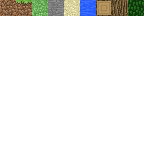
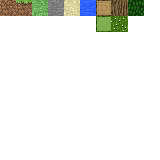
desert biome and cacti

Changed region(s): [[0.5938, 0.0938, 0.8125, 0.2188]]

diff --git a/src/plugins/world/chunk/systems/mod.rs b/src/plugins/world/chunk/systems/mod.rs
@@ -3,37 +3,53 @@ use bevy::{prelude::*, render::{render_resource::PrimitiveTopology, mesh}};
 use bevy_rapier3d::prelude::{Collider, ComputedColliderShape, Friction, CoefficientCombineRule};
 use noise::{Perlin, NoiseFn};
 
-use crate::{CHUNK_WIDTH, CHUNK_HEIGHT, plugins::world::WorldMap};
+use crate::{CHUNK_WIDTH, CHUNK_HEIGHT, plugins::world::{WorldMap, SeededPerlin}};
 
-use self::structures_generation::add_tree;
+use self::structures_generation::{add_tree, add_cactus};
 
 use super::components::{ChunkComponent, BlockType};
 
 mod structures_generation;
 
 pub fn generate_chunk_data(
-    perlin: Perlin,
+    perlin: &Res<SeededPerlin>,
     position: (i32, i32),
     world_map: &mut ResMut<WorldMap>,
 ) {
     let mut blocks = vec![vec![vec![BlockType::Air; CHUNK_WIDTH]; CHUNK_HEIGHT]; CHUNK_WIDTH];
+
+    let mut tree_positions = vec![];
 
     for x in 0..CHUNK_WIDTH {
         for y in 0..CHUNK_HEIGHT {
             for z in 0..CHUNK_WIDTH {
                 let mut block_to_assign = BlockType::Air;
 
-                let height = height_by_coords(perlin, x, z, position);
+                let height = height_by_coords(perlin.terrain_noise, x, z, position);
+                let tree_value = perlin.tree_noise.get([(x as f64 + position.0 as f64 * 16.0) * 0.01, (z as f64 + position.1 as f64 * 16.0) * 0.01]) as f32;
+
+                let temperature = perlin.temperature_noise.get([(x as f64 + position.0 as f64 * 16.0) * 0.001, (z as f64 + position.1 as f64 * 16.0) * 0.001]) as f32 * 10.;
+                let moisture = perlin.moisture_noise.get([(x as f64 + position.0 as f64 * 16.0) * 0.001, (z as f64 + position.1 as f64 * 16.0) * 0.001]) as f32 * 10.;
 
                 if y < height && y > height/2 {
-                    block_to_assign = BlockType::Dirt;
+                    if temperature > 0.5 && moisture < 0.5 {
+                        block_to_assign = BlockType::Sand;
+                    }
+                    else {
+                        block_to_assign = BlockType::Dirt;
+                    }
                 }
                 else if y <= height / 2
                 {
                     block_to_assign = BlockType::Stone;
                 }
                 else if y == height {
-                    block_to_assign = BlockType::Grass;
+                    if temperature > 0.5 && moisture < 0.5 {
+                        block_to_assign = BlockType::Sand;
+                    }
+                    else {
+                        block_to_assign = BlockType::Grass;
+                    }
                 }
 
                 if y == height && height <= 50 {
@@ -44,12 +60,25 @@ pub fn generate_chunk_data(
                     block_to_assign = BlockType::Water;
                 }
 
+                if tree_value > 0.5 && y == height && x%10==0 && z%10==0 && height >= 50 {
+                    tree_positions.push((x,y,z));
+                }
+
                 blocks[x][y][z] = block_to_assign;   
             }
         }
     }
-    if height_by_coords(perlin, 15, 15, position) > 50 {
-        blocks = add_tree(position, 15, height_by_coords(perlin, 15, 15, position), 15, world_map, blocks);
+
+    for pos in tree_positions.iter() {
+        let temperature = perlin.temperature_noise.get([(pos.0 as f64 + position.0 as f64 * 16.0) * 0.001, (pos.2 as f64 + position.1 as f64 * 16.0) * 0.001]) as f32 * 10.;
+        let moisture = perlin.moisture_noise.get([(pos.0 as f64 + position.0 as f64 * 16.0) * 0.001, (pos.2 as f64 + position.1 as f64 * 16.0) * 0.001]) as f32 * 10.;
+        
+        if temperature > 0.5 && moisture < 0.5 {
+            blocks = add_cactus(pos.0, pos.1, pos.2, blocks);
+        }
+        else {
+            blocks = add_tree(position, pos.0, pos.1, pos.2, world_map, blocks);
+        }
     }
 
     world_map.chunks.insert(position, blocks);
@@ -169,7 +198,8 @@ fn generate_block(
     }
 
     // right side
-    if block_at_position(chunks, (x as i32 +1, y as i32, z as i32), *chunk_position) == BlockType::Air {
+    if block_at_position(chunks, (x as i32 +1, y as i32, z as i32), *chunk_position).is_transparent()
+    && !block_at_position(chunks, (x as i32, y as i32, z as i32), *chunk_position).is_transparent() {
 
         verticies.extend([
             [x + 1.0, y + 1.0, z + 0.0],
@@ -185,7 +215,8 @@ fn generate_block(
     }
 
     //left side
-    if block_at_position(chunks, (x as i32 -1, y as i32, z as i32), *chunk_position) == BlockType::Air {
+    if block_at_position(chunks, (x as i32 - 1, y as i32, z as i32), *chunk_position).is_transparent()
+    && !block_at_position(chunks, (x as i32, y as i32, z as i32), *chunk_position).is_transparent() {
 
         verticies.extend([
             [x + 0.0, y + 1.0, z + 1.0],
@@ -201,7 +232,8 @@ fn generate_block(
     }
 
     //back side
-    if block_at_position(chunks, (x as i32, y as i32, z as i32 -1), *chunk_position) == BlockType::Air {
+    if block_at_position(chunks, (x as i32, y as i32, z as i32 - 1), *chunk_position).is_transparent()
+    && !block_at_position(chunks, (x as i32, y as i32, z as i32), *chunk_position).is_transparent() {
 
         verticies.extend([
             [x + 0.0, y + 1.0, z + 0.0],
@@ -217,7 +249,8 @@ fn generate_block(
     }
 
     //front side
-    if block_at_position(chunks, (x as i32, y as i32, z as i32 +1), *chunk_position) == BlockType::Air {
+    if block_at_position(chunks, (x as i32, y as i32, z as i32 + 1), *chunk_position).is_transparent()
+    && !block_at_position(chunks, (x as i32, y as i32, z as i32), *chunk_position).is_transparent() {
 
         verticies.extend([
             [x + 1.0, y + 1.0, z + 1.0],
@@ -233,7 +266,8 @@ fn generate_block(
     }
 
     //bottom side
-    if block_at_position(chunks, (x as i32, y as i32 -1, z as i32), *chunk_position) == BlockType::Air {
+    if block_at_position(chunks, (x as i32, y as i32 - 1, z as i32), *chunk_position).is_transparent()
+    && !block_at_position(chunks, (x as i32, y as i32, z as i32), *chunk_position).is_transparent() {
 
         verticies.extend([
             [x + 0.0, y + 0.0, z + 1.0],
@@ -249,7 +283,8 @@ fn generate_block(
     }
 
     //top side
-    if block_at_position(chunks, (x as i32, y as i32 +1, z as i32), *chunk_position) == BlockType::Air {
+    if block_at_position(chunks, (x as i32, y as i32 + 1, z as i32), *chunk_position).is_transparent()
+    && !block_at_position(chunks, (x as i32, y as i32, z as i32), *chunk_position).is_transparent() {
 
         verticies.extend([
             [x + 1.0, y + 1.0, z + 1.0],

diff --git a/src/plugins/world/chunk/components/mod.rs b/src/plugins/world/chunk/components/mod.rs
@@ -16,9 +16,18 @@ pub enum BlockType {
     Water,
     WoodLog,
     Leaves,
+    Cactus,
 }
 
 impl BlockType {
+    pub fn is_transparent(&self) -> bool {
+        match self {
+            BlockType::Air => true,
+            BlockType::Water => false,
+            _ => false,
+        }
+    }
+
     pub fn uvs(&self) -> BlockFaces {
         match self {
             BlockType::Air => BlockFaces::new(),
@@ -77,6 +86,14 @@ impl BlockType {
                 back: vec![Vec2::new(0.9, 0.0), Vec2::new(0.8, 0.0), Vec2::new(0.8, 0.1), Vec2::new(0.9, 0.1)],
                 top: vec![Vec2::new(0.9, 0.0), Vec2::new(0.8, 0.0), Vec2::new(0.8, 0.1), Vec2::new(0.9, 0.1)],
                 bottom: vec![Vec2::new(0.9, 0.0), Vec2::new(0.8, 0.0), Vec2::new(0.8, 0.1), Vec2::new(0.9, 0.1)],
+            },
+            BlockType::Cactus => BlockFaces {
+                left: vec![Vec2::new(0.8, 0.1), Vec2::new(0.7, 0.1), Vec2::new(0.7, 0.2), Vec2::new(0.8, 0.2)],
+                right: vec![Vec2::new(0.8, 0.1), Vec2::new(0.7, 0.1), Vec2::new(0.7, 0.2), Vec2::new(0.8, 0.2)],
+                front: vec![Vec2::new(0.8, 0.1), Vec2::new(0.7, 0.1), Vec2::new(0.7, 0.2), Vec2::new(0.8, 0.2)],
+                back: vec![Vec2::new(0.8, 0.1), Vec2::new(0.7, 0.1), Vec2::new(0.7, 0.2), Vec2::new(0.8, 0.2)],
+                top: vec![Vec2::new(0.7, 0.1), Vec2::new(0.6, 0.1), Vec2::new(0.6, 0.2), Vec2::new(0.7, 0.2)],
+                bottom: vec![Vec2::new(0.7, 0.1), Vec2::new(0.6, 0.1), Vec2::new(0.6, 0.2), Vec2::new(0.7, 0.2)],
             },
         }
     }

diff --git a/src/plugins/world/systems/mod.rs b/src/plugins/world/systems/mod.rs
@@ -11,9 +11,12 @@ pub fn generate_world_system(
     mut commands: Commands,
 ) {
     let seed = SystemTime::now().duration_since(SystemTime::UNIX_EPOCH).expect("[E] SystemTime before UNIX EPOCH!").as_secs() as u32;
-    let perlin = Perlin::new(seed);
+    let terrain_perlin = Perlin::new(seed);
+    let tree_perlin = Perlin::new(seed*2);
+    let temperature_perlin = Perlin::new(seed+20);
+    let moisture_perlin = Perlin::new(seed+30);
 
-    commands.insert_resource(SeededPerlin { noise: perlin });
+    commands.insert_resource(SeededPerlin { terrain_noise: terrain_perlin, tree_noise: tree_perlin, temperature_noise: temperature_perlin, moisture_noise: moisture_perlin});
 }
 
 pub fn generate_chunks_from_player_movement(
@@ -30,7 +33,7 @@ pub fn generate_chunks_from_player_movement(
     for x in -(render_distance + 1)..(render_distance + 1) {
         for z in -(render_distance + 1)..(render_distance + 1) {
             if !world_map.chunks.contains_key(&(chunk_x + x, chunk_z + z)) {
-                generate_chunk_data(perlin.noise, (chunk_x + x, chunk_z + z), &mut world_map);
+                generate_chunk_data(&perlin, (chunk_x + x, chunk_z + z), &mut world_map);
             }
         }
     }

diff --git a/src/plugins/world/chunk/systems/structures_generation/mod.rs b/src/plugins/world/chunk/systems/structures_generation/mod.rs
@@ -2,12 +2,25 @@ use bevy::prelude::*;
 
 use crate::{plugins::world::{WorldMap, chunk::components::BlockType}, CHUNK_WIDTH, CHUNK_HEIGHT};
 
+pub fn add_cactus (
+    x: usize, y: usize, z: usize,
+    mut blocks: Vec<Vec<Vec<BlockType>>>,
+) -> Vec<Vec<Vec<BlockType>>> {
+    for i in 1..4 {
+        if y+i < CHUNK_HEIGHT-1 {
+            blocks[x][y+i][z] = BlockType::Cactus;
+        }
+    }
+
+    blocks
+}
+
 pub fn add_tree(
     chunk_pos: (i32, i32),
     x: usize, y: usize, z: usize,
     world_map: &mut ResMut<WorldMap>,
     mut blocks: Vec<Vec<Vec<BlockType>>>,
-) -> Vec<Vec<Vec<BlockType>>>{
+) -> Vec<Vec<Vec<BlockType>>> {
     blocks[x][y+5][z] = BlockType::Leaves;
 
     let mut reserved_blocks_x = vec![vec![vec![BlockType::Air; CHUNK_WIDTH]; CHUNK_HEIGHT]; CHUNK_WIDTH];

diff --git a/src/plugins/world/mod.rs b/src/plugins/world/mod.rs
@@ -31,7 +31,10 @@ pub struct WorldMap {
 
 #[derive(Resource)]
 pub struct SeededPerlin {
-    pub noise: Perlin,
+    pub terrain_noise: Perlin,
+    pub tree_noise: Perlin,
+    pub temperature_noise: Perlin,
+    pub moisture_noise: Perlin,
 }
 
 #[derive(Resource)]

diff --git a/src/main.rs b/src/main.rs
@@ -6,7 +6,7 @@ mod plugins;
 
 pub const CHUNK_WIDTH: usize = 16;
 pub const CHUNK_HEIGHT: usize = 256;
-pub const RENDER_DISTANCE: i32 = 4;
+pub const RENDER_DISTANCE: i32 = 6;
 
 fn main() {
     App::new()
